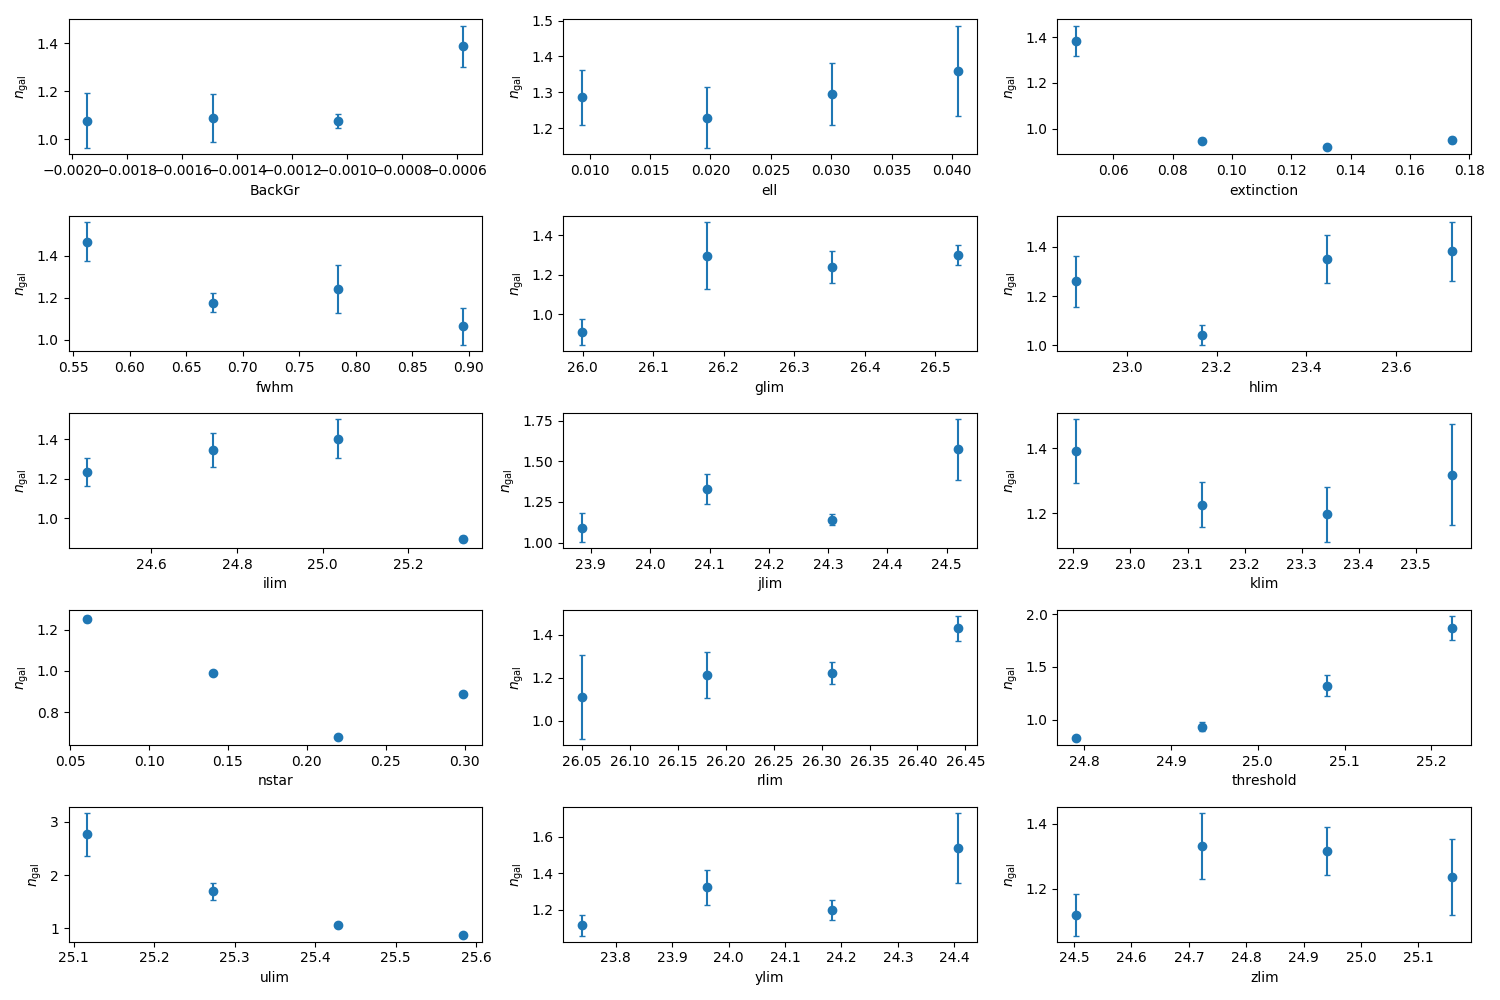
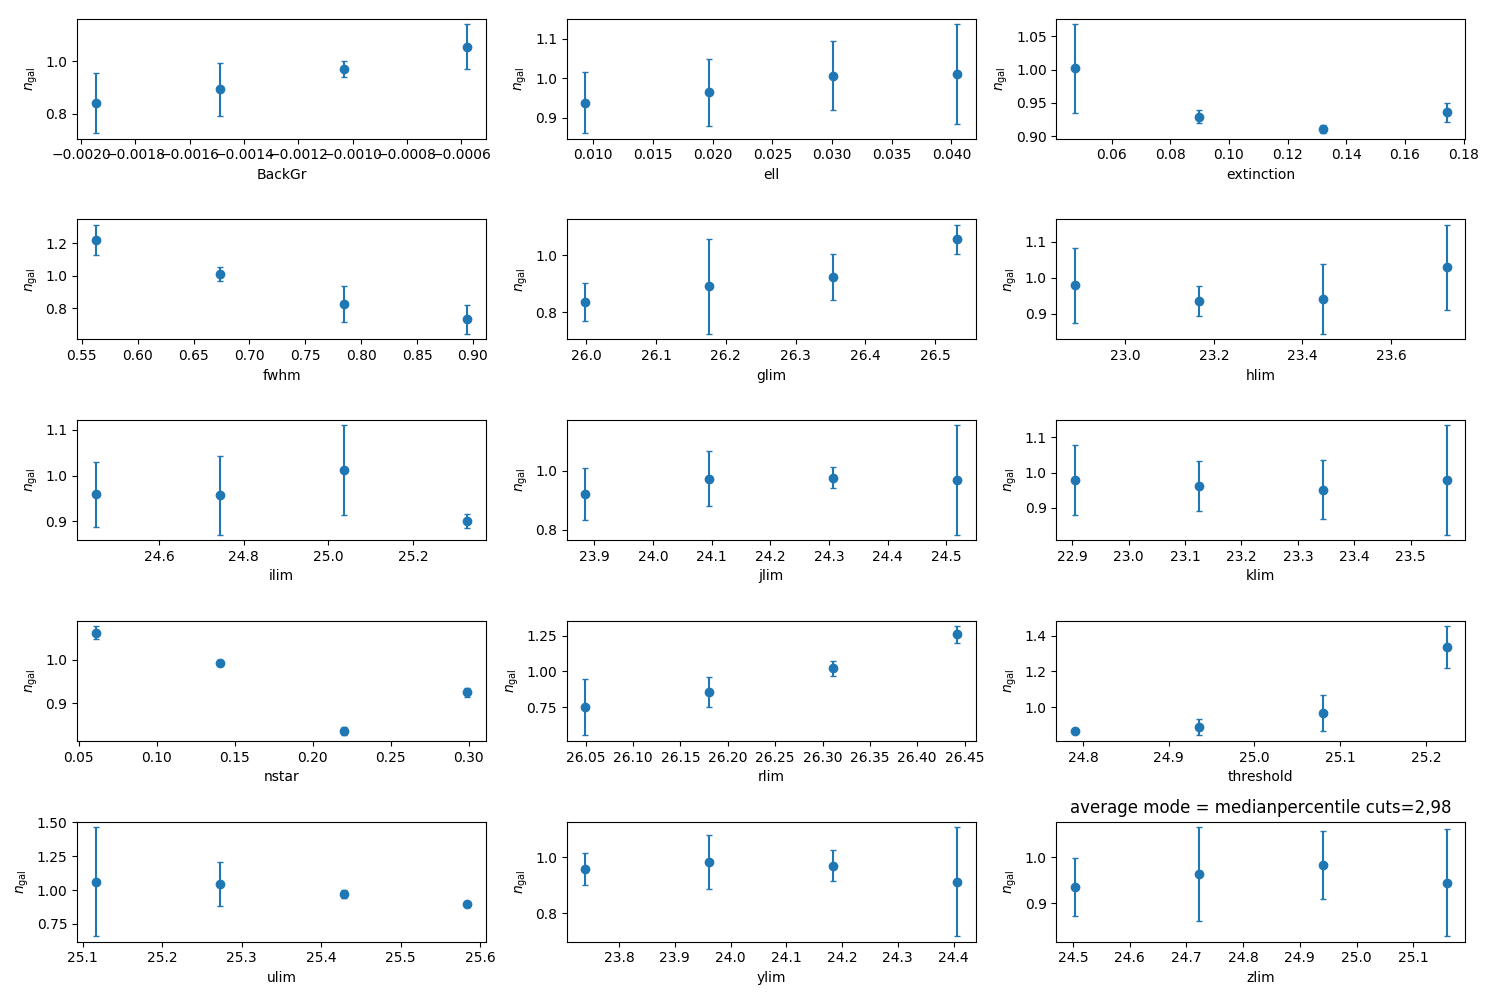
median density in param bins

diff --git a/systematic_maps/explore_maps.py b/systematic_maps/explore_maps.py
@@ -68,13 +68,16 @@ def plot_corr(pixel_data):
 
     return None
 
-def plot_ngal(ngal_norm, pixel_data, nbins, percut):
+def plot_ngal(ngal_norm, pixel_data, nbins, percut, average_mode = 'median'):
     '''
     returns a multipanel figure, with each panel 
     showing the trend between the normalized 
     gal number density and a systematic parameters
     Inputs: 
           ngal_norm = normalaized ngal,
+	  averge_mode = if 'mean', then the mean density in each bin is computed
+	                if 'median', then the median density in each bin is computed
+	  	        default: 'median'
 	  pixel_data = a dataframe with the same number of rows as 
 	  ngals, each column correspond to a systematic parameter;
 	  nbins + number of bins for making the plots
@@ -105,7 +108,7 @@ def plot_ngal(ngal_norm, pixel_data, nbins, percut):
 	    # Compute the mean of y in each bin
 	    bin_means, bin_edges, binnumber = stats.binned_statistic(x[mask],
 	    							     y[mask], 
-								     statistic = "mean",
+								     statistic = average_mode,
 								     bins = bins)
 	    
 	    # Compute the uncertainty of y in each bin							     
@@ -120,10 +123,11 @@ def plot_ngal(ngal_norm, pixel_data, nbins, percut):
             axs[i,j].set_ylabel(r"$n_{\rm gal}$")
 
             cnt+=1
+    plt.title("average mode = "+str(average_mode)+"percentile cuts="+str(percut[0])+","+str(percut[1])) 
     plt.tight_layout()
     plt.savefig(graph_dir+"sys_ngal.png")	    
         
 
 plot_hist(pixel_data)  
 plot_corr(pixel_data)  
-plot_ngal(ngal_norm, pixel_data, nbins=5, percut = [2, 98])
+plot_ngal(ngal_norm, pixel_data, nbins=5, percut = [2, 98], average_mode = "median")
